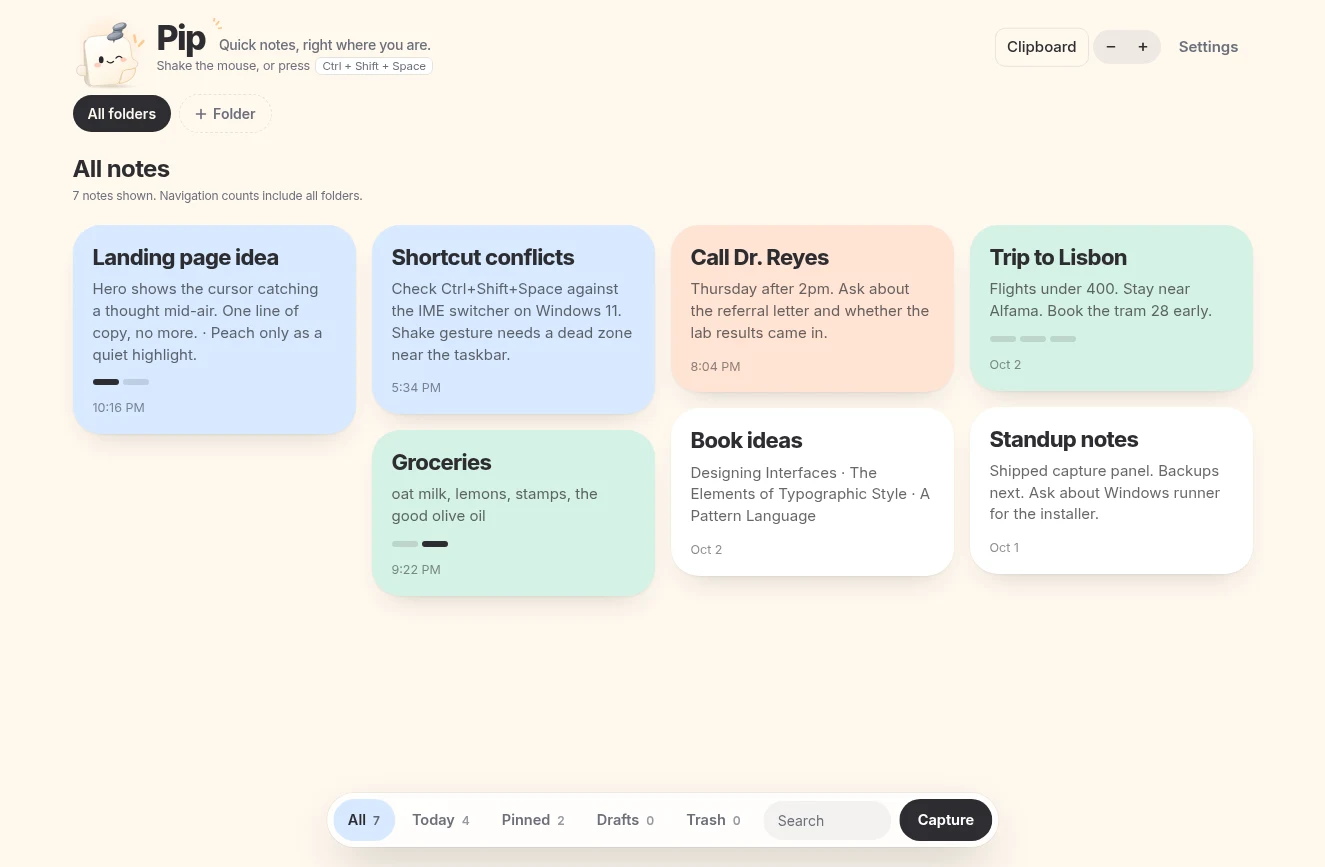
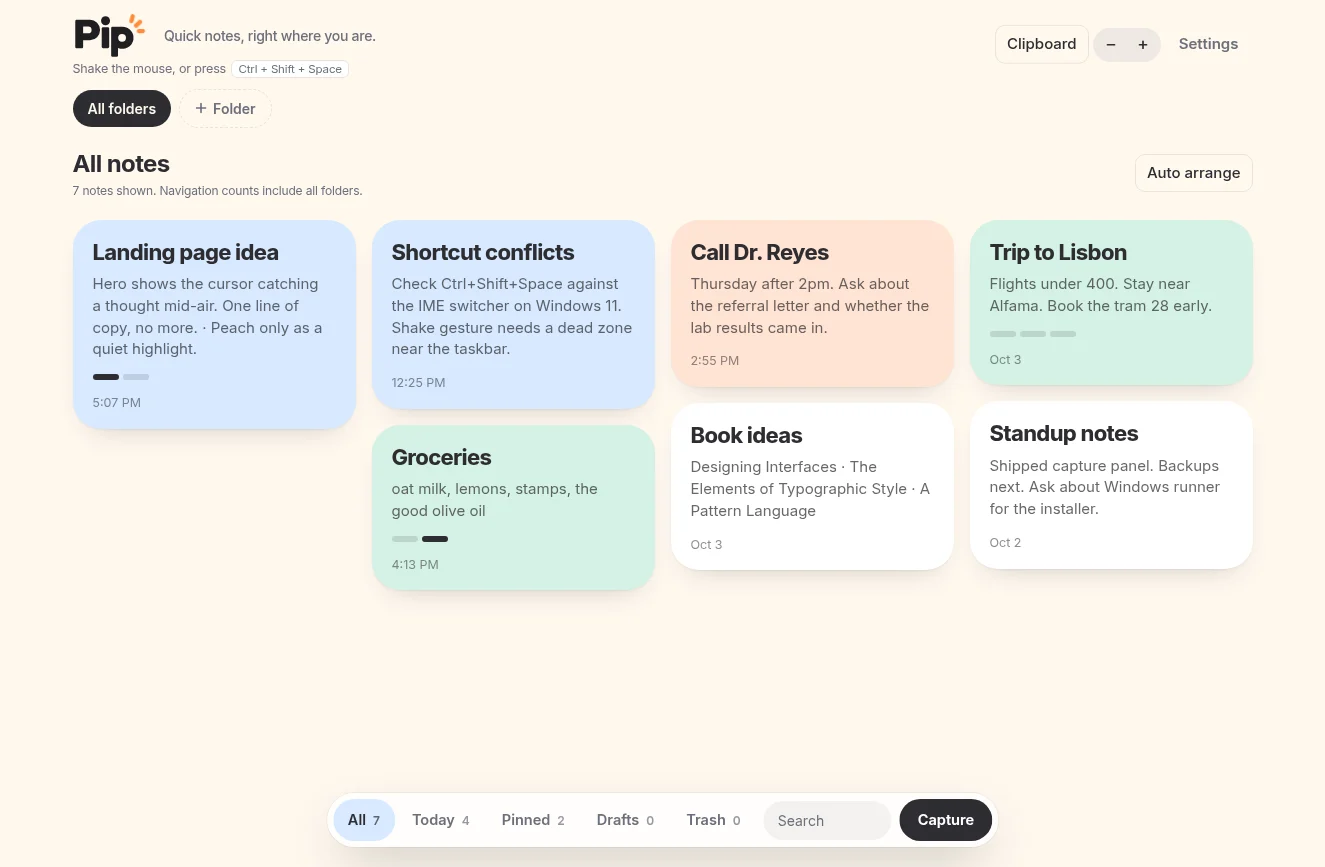
docs: update landing source to Pip spark branding (matches live LP)

diff --git a/landing/index.html b/landing/index.html
@@ -20,7 +20,9 @@
 <meta name="twitter:title" content="Pip: quick notes, right where you are">
 <meta name="twitter:description" content="Shake your mouse, write it down, get back to work. A calm notes app for Windows, free while in early access.">
 <meta name="twitter:image" content="https://pip-note.pages.dev/img/og-pip.png">
-<link rel="icon" href="img/pip-icon-only.svg">
+<link rel="icon" href="img/favicon.svg" type="image/svg+xml">
+<link rel="icon" href="img/favicon-32.png" sizes="32x32" type="image/png">
+<link rel="apple-touch-icon" href="img/apple-touch-icon.png">
 <link rel="preload" href="fonts/inter-latin.woff2" as="font" type="font/woff2" crossorigin>
 <link rel="stylesheet" href="style.css">
 <!-- Site verification placeholders are inactive until real account values are supplied.
@@ -39,7 +41,7 @@ gtag('config', 'REPLACE_WITH_GA4_MEASUREMENT_ID');
 </head>
 <body>
 <header class="nav">
-  <a class="brand" href="#top"><img src="img/pip-icon-only.svg" alt="" width="30" height="30"><span>Pip</span></a>
+  <a class="brand" href="#top" aria-label="Pip home"><svg class="pipw nav-wm" viewBox="14 8 450 282" width="48" height="30" role="img" aria-label="Pip"><g class="ink" fill-rule="evenodd"><path d="M36 56H117.5A62.5 62.5 0 0 1 117.5 181H76V222A8 8 0 0 1 68 230H36A8 8 0 0 1 28 222V64A8 8 0 0 1 36 56ZM76 97H107A21 21 0 0 1 107 139H76Z"/><path d="M199 101H227A9 9 0 0 1 236 110V221A9 9 0 0 1 227 230H199A9 9 0 0 1 190 221V110A9 9 0 0 1 199 101Z"/><circle cx="213.5" cy="61.5" r="27.5"/><path d="M257 98H316A68 68 0 1 1 290 228.3V274A9 9 0 0 1 281 283H257A9 9 0 0 1 248 274V107A9 9 0 0 1 257 98ZM339 166.5A24 24 0 1 0 291 166.5A24 24 0 1 0 339 166.5Z"/></g><line class="s s1" x1="379.9" y1="33.5" x2="372.4" y2="63.5"/><line class="s s2" x1="400.4" y1="91.3" x2="424.6" y2="68.8"/><line class="s s3" x1="417.5" y1="125" x2="442.5" y2="125"/></svg></a>
   <nav><a href="#how">How it works</a><a href="#capture-suggestions">Capture suggestions</a><a href="#privacy">Privacy</a><a href="#know">Good to know</a></nav>
   <a class="btn btn-sm" href="https://github.com/Jmasis23/pip-note/releases/download/v0.2.21/Pip_0.2.21_x64-setup.exe">Download</a>
 </header>
@@ -47,6 +49,7 @@ gtag('config', 'REPLACE_WITH_GA4_MEASUREMENT_ID');
 <main id="top">
 <section class="hero">
   <div class="hero-copy">
+    <svg class="pipw hero-wm" viewBox="14 8 450 282" width="115" height="72" aria-hidden="true"><g class="ink" fill-rule="evenodd"><path d="M36 56H117.5A62.5 62.5 0 0 1 117.5 181H76V222A8 8 0 0 1 68 230H36A8 8 0 0 1 28 222V64A8 8 0 0 1 36 56ZM76 97H107A21 21 0 0 1 107 139H76Z"/><path d="M199 101H227A9 9 0 0 1 236 110V221A9 9 0 0 1 227 230H199A9 9 0 0 1 190 221V110A9 9 0 0 1 199 101Z"/><circle cx="213.5" cy="61.5" r="27.5"/><path d="M257 98H316A68 68 0 1 1 290 228.3V274A9 9 0 0 1 281 283H257A9 9 0 0 1 248 274V107A9 9 0 0 1 257 98ZM339 166.5A24 24 0 1 0 291 166.5A24 24 0 1 0 339 166.5Z"/></g><line class="s s1" x1="379.9" y1="33.5" x2="372.4" y2="63.5"/><line class="s s2" x1="400.4" y1="91.3" x2="424.6" y2="68.8"/><line class="s s3" x1="417.5" y1="125" x2="442.5" y2="125"/></svg>
     <h1>Catch the thought before it gets away.</h1>
     <p class="lede">Shake your mouse. Type. Go back to what you were doing. Pip is a calm little notes app for Windows. It stays out of the way until you need it.</p>
     <div class="cta">
@@ -61,7 +64,7 @@ gtag('config', 'REPLACE_WITH_GA4_MEASUREMENT_ID');
       <div class="win-bar"><i></i><i></i><i></i></div>
       <img src="img/app-home.webp" srcset="img/app-home-small.webp 680w, img/app-home.webp 1325w" sizes="(max-width: 860px) 90vw, 50vw" alt="Pip's note board: colored note cards for ideas, groceries, a trip and a call, with a Capture button at the bottom." width="1325" height="867" fetchpriority="high">
     </div>
-    <img class="pip-hero" src="img/pip-idle-animated.svg" alt="Pip, a cream sticky note with a pin on top, winking" width="210" height="197">
+    <div class="pip-hero" aria-hidden="true"><svg class="pipm hero-spark" data-state="idle" viewBox="-68 -68 136 136" width="132" height="132" aria-hidden="true"><g transform="translate(-407 -79.5)"><line class="s s1" x1="379.9" y1="33.5" x2="372.4" y2="63.5"/><line class="s s2" x1="400.4" y1="91.3" x2="424.6" y2="68.8"/><line class="s s3" x1="417.5" y1="125" x2="442.5" y2="125"/></g><circle class="glow" r="64"/></svg></div>
   </div>
 </section>
 
@@ -149,7 +152,7 @@ gtag('config', 'REPLACE_WITH_GA4_MEASUREMENT_ID');
 </section>
 
 <section class="final">
-  <img src="img/pip-saved-animated.svg" alt="Pip nodding, with a small check mark" width="180" height="170" loading="lazy">
+  <div class="final-mark"><svg class="pipm final-spark" data-state="idle" viewBox="-68 -68 136 136" width="96" height="96" aria-hidden="true"><g transform="translate(-407 -79.5)"><line class="s s1" x1="379.9" y1="33.5" x2="372.4" y2="63.5"/><line class="s s2" x1="400.4" y1="91.3" x2="424.6" y2="68.8"/><line class="s s3" x1="417.5" y1="125" x2="442.5" y2="125"/></g><circle class="glow" r="64"/></svg></div>
   <h2>Need it later? Pip it.</h2>
   <p class="made-big">Made by a note power user. - Joe</p>
   <a class="btn btn-lg" href="https://github.com/Jmasis23/pip-note/releases/download/v0.2.21/Pip_0.2.21_x64-setup.exe">Download for Windows</a>
@@ -158,7 +161,7 @@ gtag('config', 'REPLACE_WITH_GA4_MEASUREMENT_ID');
 </main>
 
 <footer>
-  <span>Pip</span>
+  <svg class="pipw foot-wm" viewBox="14 8 450 282" width="29" height="18" role="img" aria-label="Pip"><g class="ink" fill-rule="evenodd"><path d="M36 56H117.5A62.5 62.5 0 0 1 117.5 181H76V222A8 8 0 0 1 68 230H36A8 8 0 0 1 28 222V64A8 8 0 0 1 36 56ZM76 97H107A21 21 0 0 1 107 139H76Z"/><path d="M199 101H227A9 9 0 0 1 236 110V221A9 9 0 0 1 227 230H199A9 9 0 0 1 190 221V110A9 9 0 0 1 199 101Z"/><circle cx="213.5" cy="61.5" r="27.5"/><path d="M257 98H316A68 68 0 1 1 290 228.3V274A9 9 0 0 1 281 283H257A9 9 0 0 1 248 274V107A9 9 0 0 1 257 98ZM339 166.5A24 24 0 1 0 291 166.5A24 24 0 1 0 339 166.5Z"/></g><line class="s s1" x1="379.9" y1="33.5" x2="372.4" y2="63.5"/><line class="s s2" x1="400.4" y1="91.3" x2="424.6" y2="68.8"/><line class="s s3" x1="417.5" y1="125" x2="442.5" y2="125"/></svg>
   <span class="made">Made by a note power user. - Joe</span>
   <a href="#privacy">Privacy</a>
 </footer>

diff --git a/landing/style.css b/landing/style.css
@@ -12,7 +12,7 @@ a{color:inherit}
 :focus-visible{outline:3px solid #7fb0ee;outline-offset:3px;border-radius:10px}
 
 .nav{position:sticky;top:0;z-index:10;display:flex;align-items:center;gap:32px;padding:14px clamp(20px,4vw,48px);background:rgba(255,248,238,.78);backdrop-filter:saturate(1.6) blur(18px);border-bottom:1px solid transparent}
-.brand{display:flex;align-items:center;gap:10px;font-weight:800;font-size:22px;letter-spacing:-.02em;text-decoration:none}
+.brand{display:flex;align-items:center;text-decoration:none}
 .nav nav{display:flex;gap:26px;margin-left:auto;font-size:15px;font-weight:500;color:var(--ink2)}
 .nav nav a{text-decoration:none}.nav nav a:hover{color:var(--ink)}
 
@@ -35,7 +35,7 @@ section{padding:clamp(64px,10vw,130px) clamp(20px,5vw,72px);max-width:1280px;mar
 .win-bar{display:flex;gap:7px;padding:12px 16px;background:#fbf6ee;border-bottom:1px solid var(--line)}
 .win-bar i{width:11px;height:11px;border-radius:50%;background:#e9dfd0}
 .win img{width:100%}
-.pip-hero{position:absolute;right:-26px;bottom:-54px;width:clamp(120px,15vw,210px);filter:drop-shadow(0 18px 18px rgba(90,60,20,.22))}
+.pip-hero{position:absolute;right:-22px;bottom:-40px;width:clamp(92px,11vw,132px);aspect-ratio:1;border-radius:22.5%;display:grid;place-items:center;background:linear-gradient(#fff,#ffeedf);border:1.5px solid rgba(255,138,58,.22);box-shadow:0 18px 30px rgba(90,60,20,.18)}.pip-hero .pipm{width:66%;height:66%}
 .win-hero{transform:rotate(-1.2deg)}
 
 /* hero load sequence: the one orchestrated moment */
@@ -95,7 +95,7 @@ dd{margin:4px 0 0;color:var(--ink2)}
 .know a{border-bottom:2px solid var(--peach);text-decoration:none}
 
 .final{text-align:center;display:grid;justify-items:center;gap:22px}
-.final img{width:150px}
+.final-mark{width:96px;height:96px}
 footer{display:flex;gap:28px;justify-content:center;padding:36px 20px 60px;font-size:14px;color:var(--ink2)}
 footer span{font-weight:800;color:var(--ink)}
 footer a{text-decoration:none}footer a:hover{color:var(--ink)}
@@ -147,3 +147,25 @@ footer .made{font-weight:500;color:var(--ink2)}
 .demo-video figcaption{font-weight:600;font-size:16px;color:var(--ink2)}
 
 section[id]{scroll-margin-top:84px}
+
+/* Pip brand: wordmark + spark. 150-300ms, one-shot. */
+.pipw,.pipm{overflow:visible;display:block}
+.pipw .ink{fill:#201E22}
+.pipw .s,.pipm .s{stroke:#FF8A3A;stroke-width:26;stroke-linecap:round;fill:none;transform-box:fill-box;transform-origin:center;transition:transform .15s cubic-bezier(.2,.7,.3,1)}
+.s1{--dx:2.4px;--dy:-9.4px}.s2{--dx:6.6px;--dy:-7.5px}.s3{--dx:9.5px;--dy:-3px}
+.pipw:hover .s,.pipm:hover .s,.pip-hero:hover .s{transform:translate(calc(var(--dx)*.45),calc(var(--dy)*.45))}
+@keyframes pip-fire{0%{opacity:0;transform:translate(calc(var(--dx)*-.8),calc(var(--dy)*-.8)) scale(.55)}60%{opacity:1;transform:translate(calc(var(--dx)*.35),calc(var(--dy)*.35)) scale(1.06)}100%{opacity:1;transform:none}}
+.pipw .s{animation:pip-fire .26s cubic-bezier(.2,.8,.3,1) both}.pipw .s2{animation-delay:.055s}.pipw .s3{animation-delay:.11s}
+.hero-wm{margin:0 0 26px;height:clamp(56px,6vw,76px);width:auto}.hero-wm .s{animation-delay:.5s}.hero-wm .s2{animation-delay:.555s}.hero-wm .s3{animation-delay:.61s}
+.nav-wm{height:30px;width:auto}.foot-wm{height:18px;width:auto;align-self:center}.nf-wm{height:64px;width:auto}
+.hero-spark .s{animation:pip-fire .26s cubic-bezier(.2,.8,.3,1) 1.5s both}.hero-spark .s2{animation-delay:1.555s}.hero-spark .s3{animation-delay:1.61s}
+@keyframes pip-hop{0%{transform:none}30%{transform:translateY(-6px) scale(.98,1.04)}60%{transform:scale(1.04,.95)}100%{transform:none}}
+.bounce{animation:pip-hop .3s cubic-bezier(.3,.7,.3,1) 1}
+.bounce .s{animation:pip-fire .26s cubic-bezier(.2,.8,.3,1) .12s both}
+.pipm .glow{fill:#FF8A3A;filter:blur(9px);opacity:0;transform-box:fill-box;transform-origin:center}
+@keyframes pip-burst{0%{transform:none}38%{transform:translate(calc(var(--dx)*1.5),calc(var(--dy)*1.5)) scale(1.12)}100%{transform:none}}
+@keyframes pip-glow{0%{opacity:0;transform:scale(.6)}35%{opacity:.3}100%{opacity:0;transform:scale(1.15)}}
+.pipm[data-state=saved] .s{animation:pip-burst .3s cubic-bezier(.2,.8,.3,1) both}.pipm[data-state=saved] .s2{animation-delay:.03s}.pipm[data-state=saved] .s3{animation-delay:.06s}
+.pipm[data-state=saved] .glow{animation:pip-glow .36s ease-out both}
+.not-found .nf-wm{width:auto}
+@media (prefers-reduced-motion:reduce){.pipw *,.pipm *,.pipm,.pipw{animation:none!important;transition:none!important}}

diff --git a/landing/404.html b/landing/404.html
@@ -6,12 +6,14 @@
 <title>Page not found · Pip</title>
 <meta name="description" content="This Pip page could not be found. Go back to Pip's home page for the Windows app, download and privacy details.">
 <meta name="robots" content="noindex,follow">
-<link rel="icon" href="/img/pip-icon-only.svg">
+<link rel="icon" href="/img/favicon.svg" type="image/svg+xml">
+<link rel="icon" href="/img/favicon-32.png" sizes="32x32" type="image/png">
+<link rel="apple-touch-icon" href="/img/apple-touch-icon.png">
 <link rel="stylesheet" href="/style.css">
 <style>.not-found{min-height:85vh;display:grid;align-content:center;justify-items:center;gap:24px;text-align:center;max-width:760px}.not-found img{width:120px}.not-found p{color:var(--ink2);max-width:28em}.not-found .eyebrow{font-size:15px;font-weight:600;letter-spacing:.05em}</style>
 </head>
 <body><main><section class="not-found">
-<a class="brand" href="/" aria-label="Pip home"><img src="/img/pip-idle-animated.svg" alt="Pip, a little pinned note" width="210" height="197"></a>
+<a class="brand" href="/" aria-label="Pip home"><svg class="pipw nf-wm" viewBox="14 8 450 282" width="102" height="64" role="img" aria-label="Pip"><g class="ink" fill-rule="evenodd"><path d="M36 56H117.5A62.5 62.5 0 0 1 117.5 181H76V222A8 8 0 0 1 68 230H36A8 8 0 0 1 28 222V64A8 8 0 0 1 36 56ZM76 97H107A21 21 0 0 1 107 139H76Z"/><path d="M199 101H227A9 9 0 0 1 236 110V221A9 9 0 0 1 227 230H199A9 9 0 0 1 190 221V110A9 9 0 0 1 199 101Z"/><circle cx="213.5" cy="61.5" r="27.5"/><path d="M257 98H316A68 68 0 1 1 290 228.3V274A9 9 0 0 1 281 283H257A9 9 0 0 1 248 274V107A9 9 0 0 1 257 98ZM339 166.5A24 24 0 1 0 291 166.5A24 24 0 1 0 339 166.5Z"/></g><line class="s s1" x1="379.9" y1="33.5" x2="372.4" y2="63.5"/><line class="s s2" x1="400.4" y1="91.3" x2="424.6" y2="68.8"/><line class="s s3" x1="417.5" y1="125" x2="442.5" y2="125"/></svg></a>
 <p class="eyebrow">404 · PAGE NOT FOUND</p>
 <h1>This thought went missing.</h1>
 <p>The page may have moved, or the link has a typo. Pip is still here.</p>

diff --git a/landing/main.js b/landing/main.js
@@ -6,3 +6,9 @@ document.querySelectorAll(".panel,.demo,.more dl,.know>div").forEach(el => { el.
 // demo video: play only while on screen, never show controls
 const dv = document.querySelector(".demo-video video");
 if (dv) { if (reduce) { dv.removeAttribute("autoplay"); dv.pause(); } else new IntersectionObserver(es => es.forEach(e => e.isIntersecting ? dv.play().catch(() => {}) : dv.pause()), { threshold: .25 }).observe(dv); }
+
+// Pip spark cues: one playful hop on the hero tile, and a saved burst when the closing CTA scrolls in.
+const hs = document.querySelector(".pip-hero .pipm");
+if (hs && !reduce) setTimeout(() => hs.classList.add("bounce"), 4500);
+const fs = document.querySelector(".final-spark");
+if (fs) { fs.dataset.state = "idle"; if (!reduce) new IntersectionObserver((es, o) => es.forEach(e => { if (e.isIntersecting) { fs.dataset.state = "saved"; o.disconnect(); } }), { threshold: .6 }).observe(fs); }
